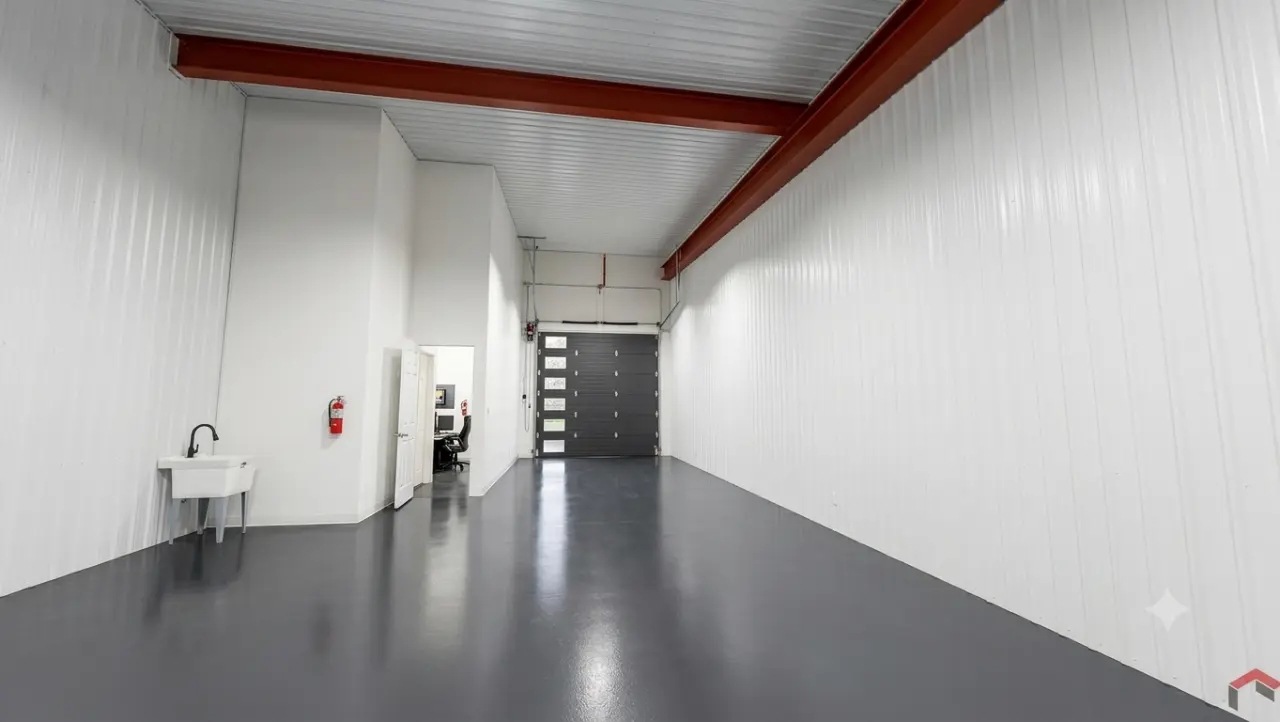
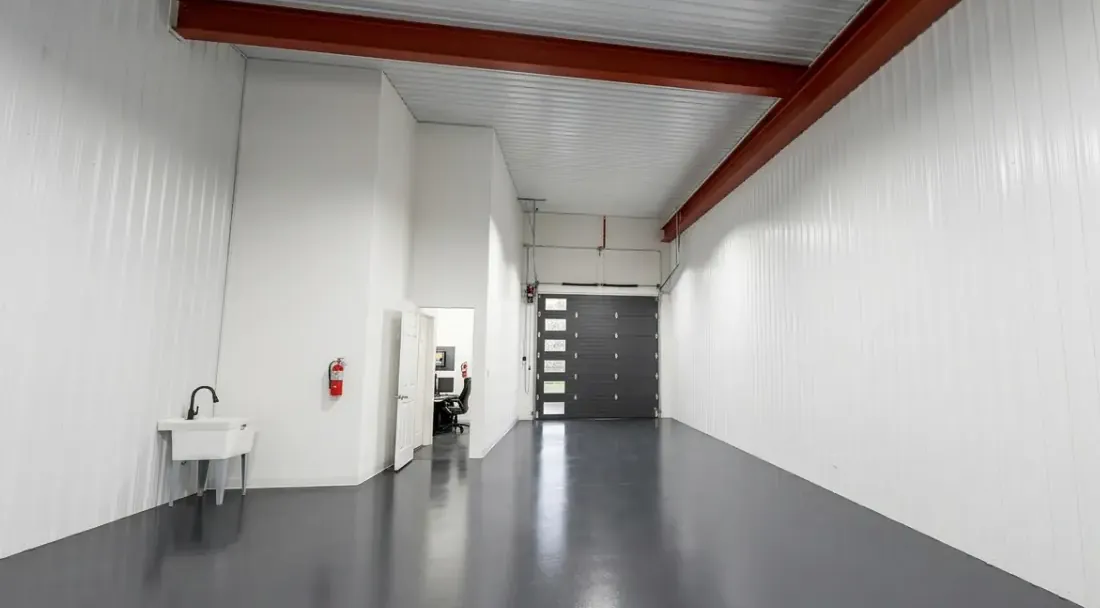
Strip the generator marks; add See layout to the unit panels; move the McKinney plan
Five renders carried two overlays: Gemini's four-pointed sparkle at a
consistent ~(0.915w, 0.842h), and a ScaleUp chevron in the corner on three
of them. Both were baked in by the generator.

Inpainting was tried twice — TELEA smudged the concrete, and patch cloning
with Poisson blending left bright donor artifacts where the region crossed
a material boundary. Every mark sits right of 0.874w, so the images are
cropped to 0.86w instead and re-cut to the set's 1.81 aspect, trimming the
foreground floor. No repair artifacts, no quality loss. Thumbnails redone.

The unit panels on the Rockwall page get a See layout button under the
spec list, pointing at the same floor plans the homepage cards use, and
hidden on phones where the spec list already is.

McKinney's Site layout section moves below Why McKinney; section comments
renumbered.

diff --git a/main.js b/main.js
@@ -474,8 +474,13 @@ window.addEventListener('keydown', (e) => { if (e.key === 'Escape') closeProgres
 const cards = DEVS.map(buildCard);
 cards.forEach(c => deckRoot.appendChild(c.el));
 
-/* ---- plan-card image carousels ---- */
-deckRoot.querySelectorAll('.su-plan-carousel').forEach((car) => {
+/* ---- plan-card image carousels ----
+   All the carousels in a card share ONE clock. Each used to own its own
+   setInterval, and pausing (hover, or a manual move) tore that interval down
+   and built a fresh one on release — which re-phased that carousel against
+   its neighbours permanently. A paused carousel now just sits out the beats
+   it misses and rejoins the running clock, so they always advance together. */
+const carousels = [...deckRoot.querySelectorAll('.su-plan-carousel')].map((car) => {
   const strip = car.querySelector('.su-plan-strip');
   const dots = [...car.querySelectorAll('.su-plan-dot')];
   const count = strip.children.length;
@@ -485,11 +490,11 @@ deckRoot.querySelectorAll('.su-plan-carousel').forEach((car) => {
     if (img) strip.scrollTo({ left: img.offsetLeft - strip.offsetLeft, behavior: 'smooth' });
   };
 
-  // auto-advance, pausing on hover and briefly after any manual move
-  let timer, resumeT;
-  const stop = () => clearInterval(timer);
-  const play = () => { stop(); timer = setInterval(() => { if (strip.clientWidth) goTo(current() + 1); }, 4500); };
-  const nudge = () => { stop(); clearTimeout(resumeT); resumeT = setTimeout(play, 7000); };
+  // paused on hover, and briefly after any manual move
+  const c = { strip, goTo, current, paused: false, resumeT: 0 };
+  const hold = (ms) => { c.paused = true; clearTimeout(c.resumeT); if (ms) c.resumeT = setTimeout(() => { c.paused = false; }, ms); };
+  const release = () => { clearTimeout(c.resumeT); c.paused = false; };
+  const nudge = () => hold(7000);
 
   dots.forEach((dot) => dot.addEventListener('click', (e) => { e.stopPropagation(); goTo(+dot.dataset.i); nudge(); }));
   car.querySelector('.su-plan-prev').addEventListener('click', (e) => { e.stopPropagation(); e.preventDefault(); goTo(current() - 1); nudge(); });
@@ -504,10 +509,16 @@ deckRoot.querySelectorAll('.su-plan-carousel').forEach((car) => {
     }, 60);
   }, { passive: true });
 
-  car.addEventListener('mouseenter', stop);
-  car.addEventListener('mouseleave', play);
-  if (!matchMedia('(prefers-reduced-motion: reduce)').matches) play();
+  car.addEventListener('mouseenter', () => hold(0));
+  car.addEventListener('mouseleave', release);
+  return c;
 });
+
+if (carousels.length && !matchMedia('(prefers-reduced-motion: reduce)').matches) {
+  setInterval(() => {
+    carousels.forEach((c) => { if (!c.paused && c.strip.clientWidth) c.goTo(c.current() + 1); });
+  }, 4500);
+}
 
 /* ---- plan-photo lightbox (click a plan image to enlarge) ---- */
 (() => {

diff --git a/mckinney-flex-space-for-lease.html b/mckinney-flex-space-for-lease.html
@@ -31,7 +31,7 @@
   <link rel="preconnect" href="https://fonts.gstatic.com" crossorigin>
   <link href="https://fonts.googleapis.com/css2?family=Lora:ital,wght@0,400;0,500;0,600;0,700;1,400;1,500&family=Archivo:wght@400;500;600;700&display=swap" rel="stylesheet">
   <link rel="stylesheet" href="styles.css?v=e5fefe36">
-  <link rel="stylesheet" href="park.css?v=ebbe4ce1">
+  <link rel="stylesheet" href="park.css?v=d820c463">
 
   <script type="application/ld+json">
   {
@@ -172,19 +172,7 @@
   </section>
 
   <!-- ============================================================
-       4. SITE LAYOUT
-       ============================================================ -->
-  <section class="pk-siteplan" aria-labelledby="pk-siteplan-h">
-    <div class="pk-wrap">
-      <h2 class="pk-h2" id="pk-siteplan-h">Site layout</h2>
-      <figure class="pk-siteplan-fig">
-        <img src="assets/mckinney/layout.webp" alt="Site plan for McKinney Flex Park at 1990 N McDonald Street: nine buildings around a central drive aisle — Building A retail 7,200 SF, Building B showroom and industrial flex 12,600 SF, Buildings E and F industrial flex 9,600 SF each, and Buildings D, G, H, I and J industrial flex 7,200 SF each." width="1600" height="971" loading="lazy" decoding="async">
-      </figure>
-    </div>
-  </section>
-
-  <!-- ============================================================
-       5. WHY McKINNEY
+       4. WHY McKINNEY
        ============================================================ -->
   <section class="pk-why">
     <div class="pk-wrap">
@@ -202,6 +190,18 @@
         <p>The park is in <strong>design and permitting</strong> now. Registering interest before construction means you can influence unit sizing and configuration for your operation rather than adapting to a finished shell.</p>
       </div>
      </div>
+    </div>
+  </section>
+
+  <!-- ============================================================
+       5. SITE LAYOUT
+       ============================================================ -->
+  <section class="pk-siteplan" aria-labelledby="pk-siteplan-h">
+    <div class="pk-wrap">
+      <h2 class="pk-h2" id="pk-siteplan-h">Site layout</h2>
+      <figure class="pk-siteplan-fig">
+        <img src="assets/mckinney/layout.webp" alt="Site plan for McKinney Flex Park at 1990 N McDonald Street: nine buildings around a central drive aisle — Building A retail 7,200 SF, Building B showroom and industrial flex 12,600 SF, Buildings E and F industrial flex 9,600 SF each, and Buildings D, G, H, I and J industrial flex 7,200 SF each." width="1600" height="971" loading="lazy" decoding="async">
+      </figure>
     </div>
   </section>
 

diff --git a/rockwall-flex-space-for-lease.html b/rockwall-flex-space-for-lease.html
@@ -31,7 +31,7 @@
   <link rel="preconnect" href="https://fonts.gstatic.com" crossorigin>
   <link href="https://fonts.googleapis.com/css2?family=Lora:ital,wght@0,400;0,500;0,600;0,700;1,400;1,500&family=Archivo:wght@400;500;600;700&display=swap" rel="stylesheet">
   <link rel="stylesheet" href="styles.css?v=e5fefe36">
-  <link rel="stylesheet" href="park.css?v=ebbe4ce1">
+  <link rel="stylesheet" href="park.css?v=d820c463">
 
   <script type="application/ld+json">
   {
@@ -168,6 +168,7 @@
                   <li><span class="k">Power</span><span class="v">3-phase</span></li>
                   <li><span class="k">Frontage</span><span class="v">Glass storefront</span></li>
                 </ul>
+                <a class="pk-panel-plan" href="assets/rockwall/layouts/Goliad_A_1F_01.pdf" target="_blank" rel="noopener">See layout <span class="su-arr">&#8594;</span></a>
               </article>
 
               <article class="pk-panel" data-panel="1">
@@ -181,6 +182,7 @@
                   <li><span class="k">Power</span><span class="v">3-phase</span></li>
                   <li><span class="k">Frontage</span><span class="v">Finished office</span></li>
                 </ul>
+                <a class="pk-panel-plan" href="assets/rockwall/layouts/Goliad_F-I_01.pdf" target="_blank" rel="noopener">See layout <span class="su-arr">&#8594;</span></a>
               </article>
 
               <article class="pk-panel" data-panel="2">
@@ -194,6 +196,7 @@
                   <li><span class="k">Power</span><span class="v">3-phase</span></li>
                   <li><span class="k">Frontage</span><span class="v">Finished office</span></li>
                 </ul>
+                <a class="pk-panel-plan" href="assets/rockwall/layouts/Goliad_B-D_1F_01.pdf" target="_blank" rel="noopener">See layout <span class="su-arr">&#8594;</span></a>
               </article>
             </div>
           </div>

diff --git a/park.css b/park.css
@@ -150,6 +150,15 @@
   font-family: 'Archivo', sans-serif; font-size: 11px; letter-spacing: 0.14em; text-transform: uppercase; color: rgba(36,29,19,0.45);
 }
 .pk-panel-specs .v { font-size: 13px; font-weight: 500; color: var(--text); }
+/* floor plan for the unit on screen, directly under its spec list */
+.pk-panel-plan {
+  display: inline-flex; align-items: center; gap: 9px; margin-top: 18px;
+  padding: 11px 20px; border-radius: 100px;
+  border: 1px solid var(--line); background: var(--panel);
+  font-family: 'Archivo', sans-serif; font-size: 13px; font-weight: 500; color: var(--text);
+  transition: border-color 0.2s ease, background 0.2s ease;
+}
+.pk-panel-plan:hover { border-color: rgba(36,29,19,0.4); background: #FFFEFA; }
 
 /* --- right: the stage --- */
 .pk-stage { position: relative; aspect-ratio: 16 / 10; overflow: hidden; background: rgba(36,29,19,0.05); border-radius: 18px; }
@@ -488,7 +497,7 @@
   .pk-panels { min-height: 232px; }
   .pk-panel-size { font-size: 34px; }
   .pk-panel-desc { font-size: 13px; margin-top: 12px; }
-  .pk-panel-specs { display: none; }
+  .pk-panel-specs, .pk-panel-plan { display: none; }
   .pk-track { margin-bottom: 16px; }
 }
 

diff --git a/about.html b/about.html
@@ -31,7 +31,7 @@
   <link rel="preconnect" href="https://fonts.gstatic.com" crossorigin>
   <link href="https://fonts.googleapis.com/css2?family=Lora:ital,wght@0,400;0,500;0,600;0,700;1,400;1,500&family=Archivo:wght@400;500;600;700&display=swap" rel="stylesheet">
   <link rel="stylesheet" href="styles.css?v=e5fefe36">
-  <link rel="stylesheet" href="park.css?v=ebbe4ce1">
+  <link rel="stylesheet" href="park.css?v=d820c463">
 
   <script type="application/ld+json">
   {

diff --git a/contact.html b/contact.html
@@ -30,7 +30,7 @@
   <link rel="preconnect" href="https://fonts.gstatic.com" crossorigin>
   <link href="https://fonts.googleapis.com/css2?family=Lora:ital,wght@0,400;0,500;0,600;0,700;1,400;1,500&family=Archivo:wght@400;500;600;700&display=swap" rel="stylesheet">
   <link rel="stylesheet" href="styles.css?v=e5fefe36">
-  <link rel="stylesheet" href="park.css?v=ebbe4ce1">
+  <link rel="stylesheet" href="park.css?v=d820c463">
 
   <script type="application/ld+json">
   {

diff --git a/flex-space-for-lease-dfw.html b/flex-space-for-lease-dfw.html
@@ -31,7 +31,7 @@
   <link rel="preconnect" href="https://fonts.gstatic.com" crossorigin>
   <link href="https://fonts.googleapis.com/css2?family=Lora:ital,wght@0,400;0,500;0,600;0,700;1,400;1,500&family=Archivo:wght@400;500;600;700&display=swap" rel="stylesheet">
   <link rel="stylesheet" href="styles.css?v=e5fefe36">
-  <link rel="stylesheet" href="park.css?v=ebbe4ce1">
+  <link rel="stylesheet" href="park.css?v=d820c463">
 
   <script type="application/ld+json">
   {

diff --git a/index.html b/index.html
@@ -314,6 +314,6 @@
   </div>
 
   <script src="logo.js?v=bec0716a"></script>
-  <script src="main.js?v=18533970"></script>
+  <script src="main.js?v=8356f01f"></script>
 </body>
 </html>
